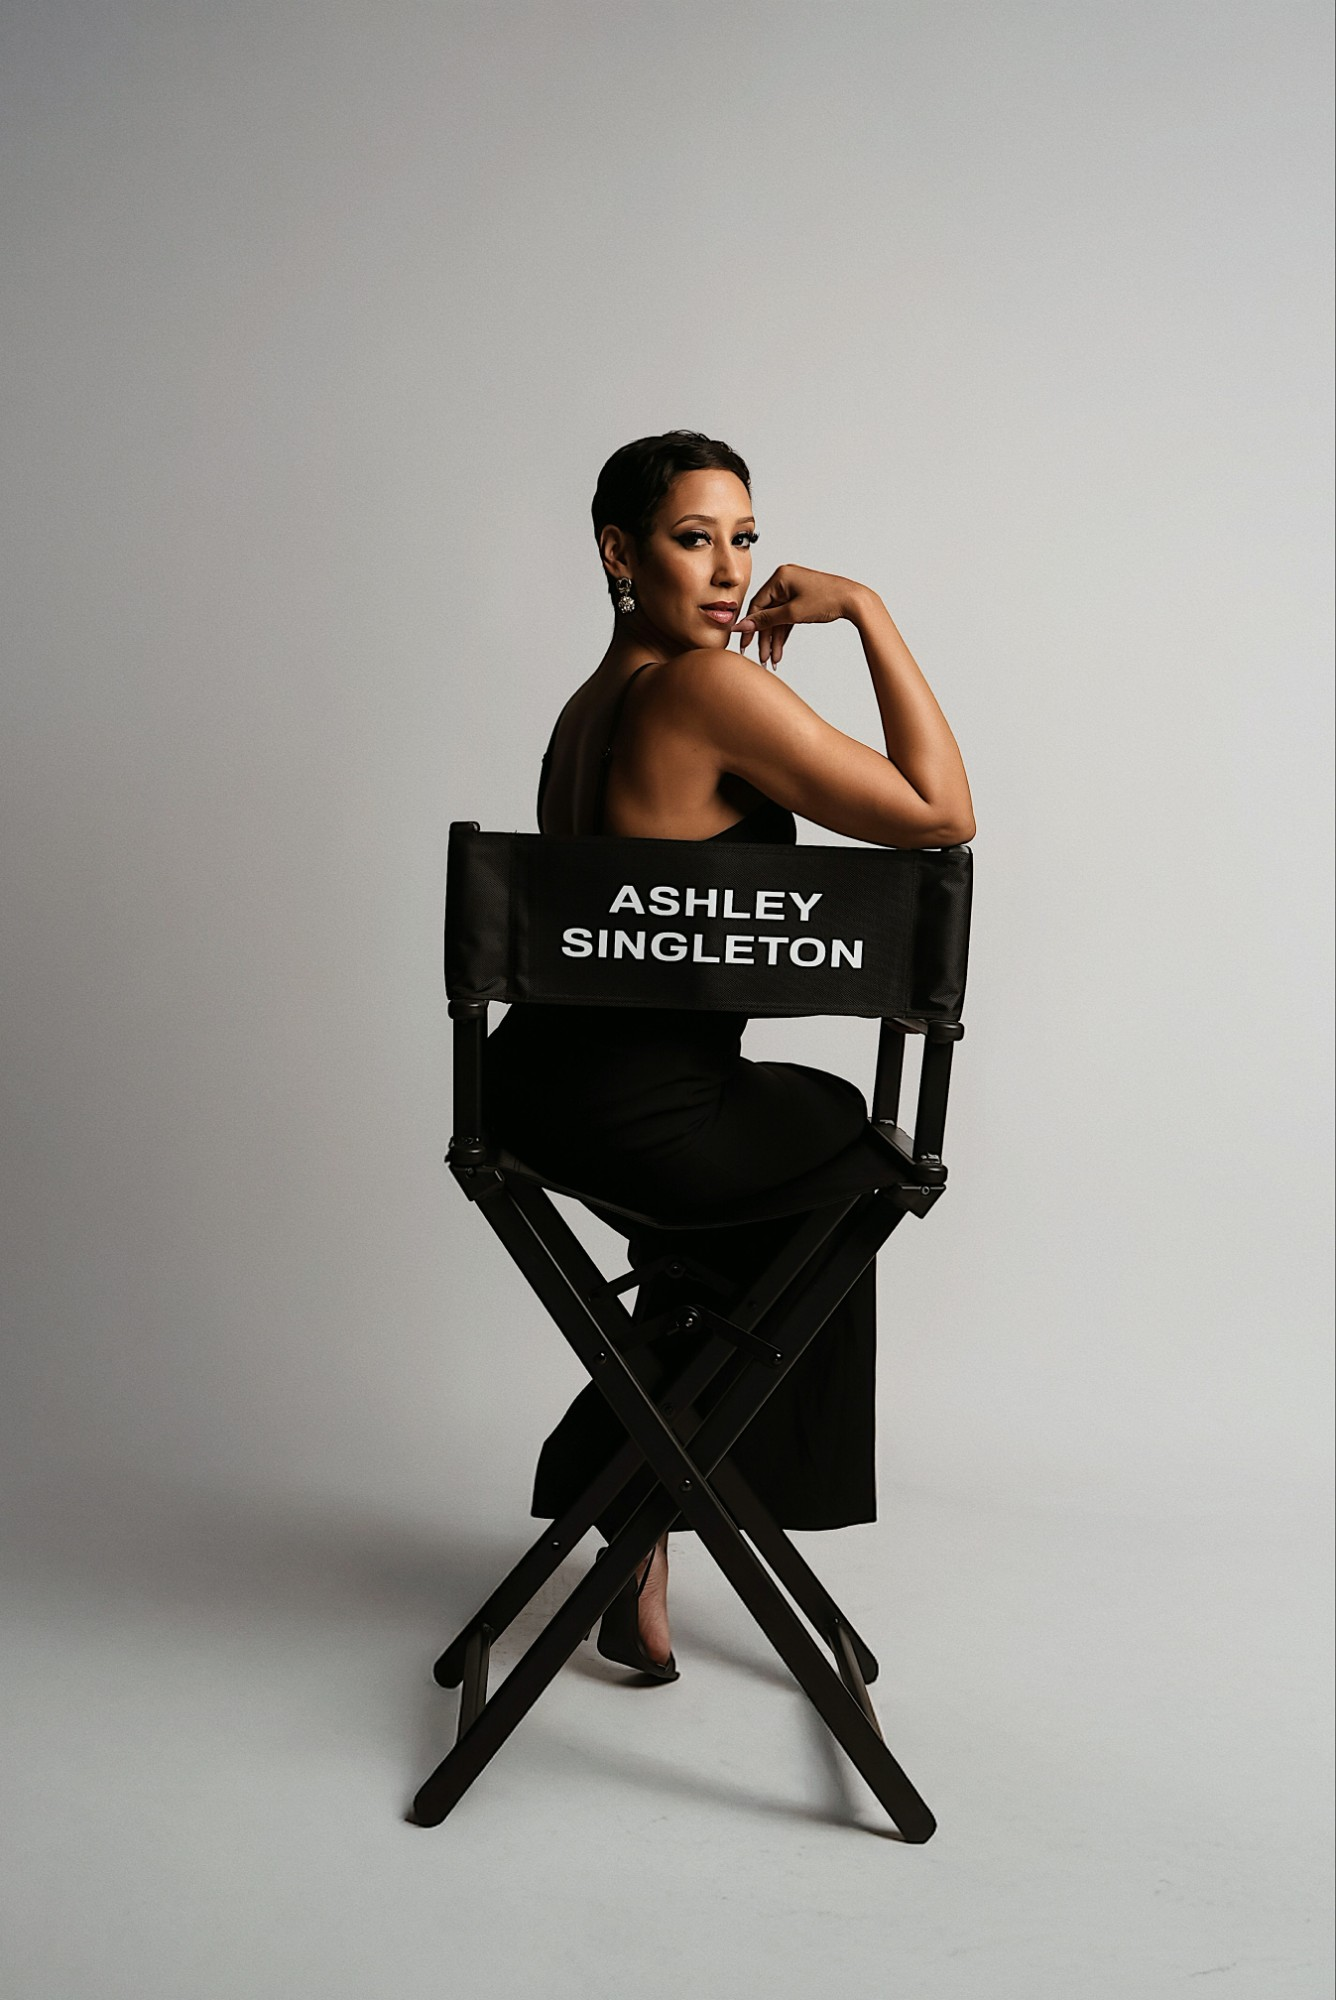
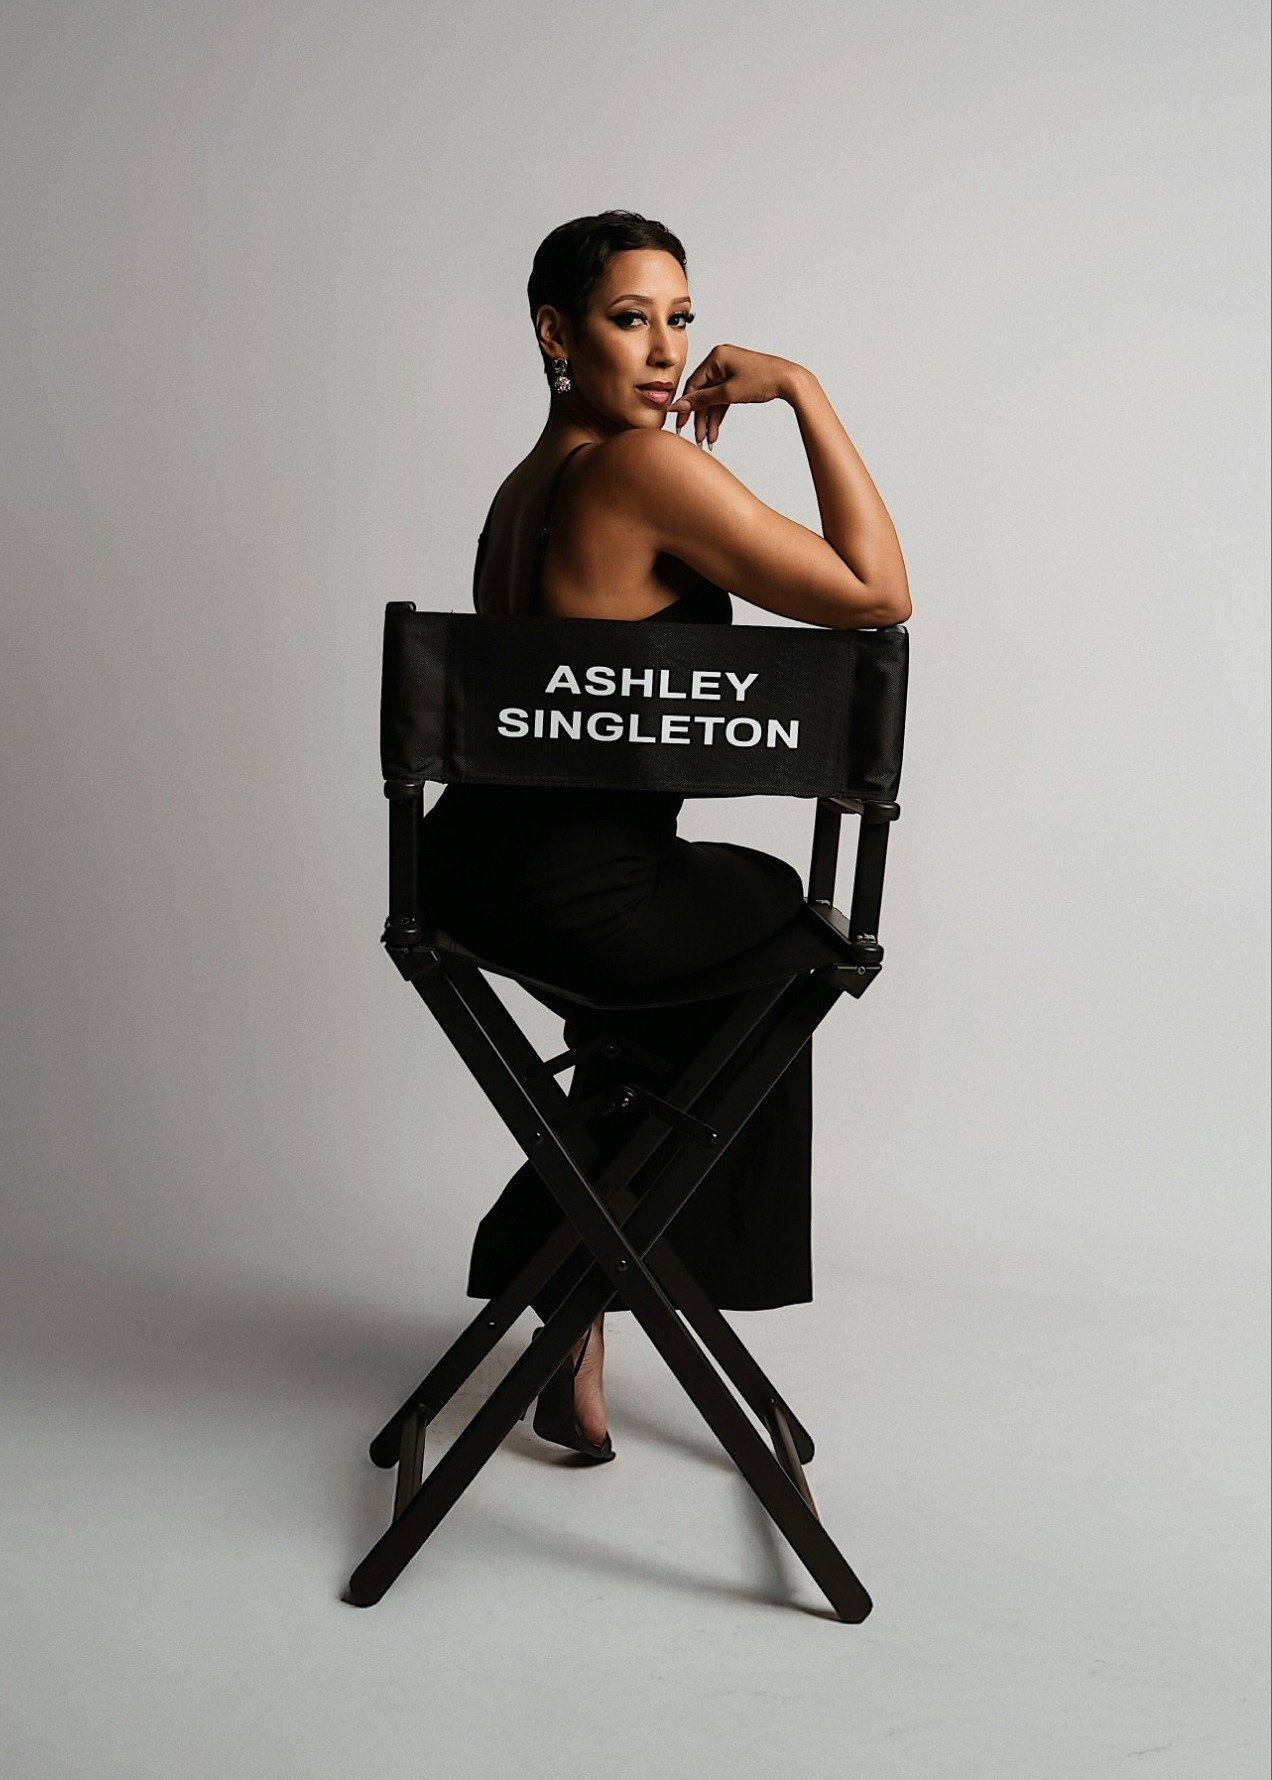
Crop About portrait to center subject with balanced head/floor space
- Recrop chair image so the subject+chair is centered horizontally and has
  equal head- and floor-space (was top-heavy: 21% head vs 10% floor)
- object-position center center so both desktop (crops sides) and mobile
  (crops top/bottom) stay symmetric; update img intrinsic size to 1272x1780

Claude-Session: https://claude.ai/code/session_01FEjmKaxiwjKdYgFvJ56WtP

Changed region(s): [[0.2146, 0.0927, 0.7358, 0.927]]

diff --git a/css/styles.css b/css/styles.css
@@ -413,7 +413,7 @@ body:not(.is-loading) .preloader { pointer-events: none; }
 .about__grid { display: grid; grid-template-columns: 0.9fr 1.1fr; gap: clamp(32px, 6vw, 100px); align-items: stretch; }
 /* Portrait stretches to the full height of the (taller) bio column */
 .about__portrait { position: relative; overflow: hidden; background: var(--paper-2); min-height: 100%; }
-.about__portrait img { width: 100%; height: 100%; filter: grayscale(1) contrast(1.03); object-fit: cover; object-position: center 30%; }
+.about__portrait img { width: 100%; height: 100%; filter: grayscale(1) contrast(1.03); object-fit: cover; object-position: center center; }
 .about__portraitTag { position: absolute; bottom: 14px; left: 14px; font-family: var(--font-mono); font-size: 11px; letter-spacing: 0.1em; text-transform: uppercase; color: var(--paper); background: rgba(11,11,11,0.7); padding: 6px 10px; }
 .about__body .overline { margin-bottom: var(--space-md); }
 .about__lead { font-family: var(--font-display); font-weight: 700; text-transform: uppercase; font-size: clamp(1.8rem, 4.4vw, 3.6rem); line-height: 1; letter-spacing: -0.02em; margin-bottom: var(--space-sm); }

diff --git a/index.html b/index.html
@@ -242,7 +242,7 @@
     <section class="about" id="about">
       <div class="about__grid">
         <div class="about__portrait" data-reveal>
-          <img src="img/chair.jpg" alt="Ashley Nicole Singleton seated in a director's chair bearing her name" loading="lazy" width="1336" height="2000" />
+          <img src="img/chair.jpg" alt="Ashley Nicole Singleton seated in a director's chair bearing her name" loading="lazy" width="1272" height="1780" />
           <span class="about__portraitTag">Ashley Nicole Singleton</span>
         </div>
 
